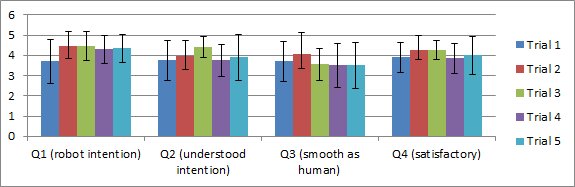
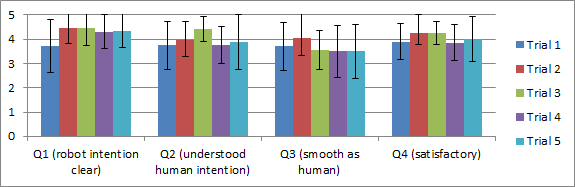
In-progress update

diff --git a/root.tex b/root.tex
@@ -181,7 +181,7 @@ Our behaviour is presented as a socially compliant means to resolving navigation
 
 Testing was divided into two discrete phases – one set of experimental robot-robot interactions, and one user study of human-robot interactions. It is important to note that the environment, robots, software and parameters were the same in both tests, as they would be in a live system.
 
-The test environment for all experiments was a lab with a wall erected to divide the test space into two smaller rooms and with an open, standard-sized (97cm wide) doorway centered in it. Subjects in the smaller room would begin 2m from the door, while subjects in the larger room would begin 4m away. This would ensure the closer party in each interaction would have right of way by arriving at the door first, setting up a natural outcome for each deadlock we would expect of two humans.
+The test environment for all experiments was a lab with a wall erected to divide the test space into two smaller rooms and with an open, standard-sized (97cm wide) doorway centered in it. Subjects in the smaller room would begin 2m from the door, while subjects in the larger room would begin 4m away. This ensured the closer party in each interaction should have right of way by arriving at the door first, as we would expect from two humans in this setting (all else being equal).
 
 The robots used were Pioneer 3DXs, as seen in Figure~\ref{fig:Triptych}. Both were mounted with forward-facing range-finding lasers to provide navigational and detection data, using comparisons between a known map of the environment to determine if something in front is an obstacle or a possible interaction partner without distinguishing between different possible partners. They used rear-mounted sonars while retreating to avoid collisions. They had a top speed of 0.5m/s and stood 0.74m tall thanks to a paperwork-storing box used as part of the study, which gave them just enough physical presence to make stepping over them impractical but without posing a threat to participants.
 
@@ -190,14 +190,14 @@ Sensor data and user feedback were deliberately limited in this implementation t
 
 \subsection{Robot-Robot Experiment}
 
-Each robot was set at their respective starting points either side of the doorway. At the beginning of each trial, the further robot would be given the instruction to drive to the other robot’s starting point, and after approximately one second the closer robot would receive the same instruction. This ensured the robot starting inside the smaller room would most likely reach the doorway first (with some variability on their exact meeting point) and so would also be given the higher ``assertiveness" variable.
+Each robot was set at their respective starting points either side of the doorway. At the beginning of each trial, the further robot would be given the instruction to drive to the other robot’s starting point, and after approximately one second the closer robot would receive the same instruction. This ensured the robot starting inside the smaller room would most likely reach the doorway first (with some variability on their exact meeting point) and was given the higher ``assertiveness" variable to reflect their expected right of way.
 
-The expected outcome for each trial would be that the more assertive, nearer robot would win the ensuing contest and drive the other robot to retreat until it could pass, whereupon the other robot would resume and finish its journey. Once both robots had reached the other’s starting point, they would swap assertiveness values and repeat the process. This was repeated 25 times, with the outcomes, interaction times and errors or other incidents recorded. 
+The desired outcome for each trial was that the more assertive, nearer robot would win the ensuing contest and have the other robot retreat until it could pass, whereupon the other robot would resume and finish its journey. Once both robots had reached their destinations, they would swap assertiveness values and goals and repeat the process. This was repeated 44 times, with the outcomes, interaction times and errors or other incidents recorded. 
 
 
 \subsection{Human-Robot Study}
 
-20 participants were recruited from the general population of Simon Fraser University, including 8 women and 12 men, and were not compensated for their assistance.
+20 participants were recruited from the general population of Simon Fraser University, including 8 women and 12 men. They were not compensated for their assistance.
 
      \begin{figure}
       \centering
@@ -206,11 +206,11 @@ The expected outcome for each trial would be that the more assertive, nearer rob
       \label{fig:Example}
    \end{figure}
 
-Each participant was brought to the test environment and seated across from the test conductor in the smaller room, passing by the robot prepared for the experiment in the larger room. Every trial had the participant drop a document in a box in the larger room while the robot entered the smaller room to pick up some excess paperwork, causing incidental interactions at the doorway dividing the two rooms. Each participant completed five trials:
+Each participant was brought to the test environment and seated across from the test conductor in the smaller room, passing by the robot prepared for the experiment in the larger room. Every trial had the participant drop a document in a box in the larger room while the robot entered the smaller room to pick up some excess paperwork from the test conductor, then had the participant and robot return to their starting points. This created two interactions per trial, where we expected the human to have the right of way in the first part and the robot in the second. Each participant completed five trials:
 
-\textbf{1) First Reaction Trial:} Without being informed as to the details of the experiment, the participant was asked to drop their signed consent form in a box on a table in the larger room, while the robot would be called in to collect the reusable part of their consent form. The participant incidentally interacted with the robot around the door as a result, and then again on their return journey. The participant was then informed that these incidental interactions were actually one of the trials, and the intent of the study was to examine their interactions with the robot around the doorway.
+\textbf{1) First Reaction Trial:} Without being informed as to the details of the experiment, the participant was asked to drop their signed consent form in a box on a table in the larger room, while the robot would be called in to collect the reusable part of the form. The participant incidentally interacted with the robot around the door as a result, and then again on their return journey. The participant was then informed that these incidental interactions were actually one of the trials, and the intent of the study was to examine their interactions with the robot around the doorway.
 
-\textbf{2) Teleoperation Trial:} The participant was informed that the test conductor will take in control of the robot via a controller, but to otherwise focus on the robot. 
+\textbf{2) Teleoperation Trial:} The participant was informed that the test conductor will take direct control of the robot via a controller, but to otherwise focus on the robot when deciding when to pass. 
 
 \textbf{3) Full System Trial:} The participant was informed the full autonomous system would now be active and the test conductor would no longer be in control of the robot.
 
@@ -274,7 +274,7 @@ What other feedback?\\
 
 \subsection{Results}
 
-[EDITOR NOTE: Still under development. The goal is to show that outcome results establish the system worked mostly as intended to resolve deadlocks, but also that there are different subgroups of participants based on how much they respected the robot's right of way. The timing data then shows the human-robot interactions are sufficiently timely but also that those who respected that right of way had better trial completion times to support the claim that extending reciprocation of social customs to robots will make for better overall performance. The stickier part is analyzing the survey results and questionnaire answers for evidence that perception of the robot correlated in some way with behaviour and performance, so the latter two subsections are still being worked up.]
+
 
 \textbf{1) Outcome:} The robot-robot interaction experiment had 44 trials, with 5 additional trials discounted due to navigational errors unrelated to our behaviour. Of those 44, 34 trials went exactly as planned.  In four cases each robot believed the other robot was approaching them and both retreated at first, but correctly resolved the interaction on the second attempt, while six trials had recoverable navigational errors unrelated to our behaviour. All trials ended with the correct robot winning the interaction and both arriving at their desired destinations.
 
@@ -285,7 +285,7 @@ What other feedback?\\
       \label{fig:Outcomes}
    \end{figure}
 
-The outcome results for the human-robot interaction study are in Figure~\ref{fig:Outcomes}. The near-unanimous respect for the human's right of way in all trials when the participant was closest to the door is not very revealing, beyond that the behaviour completed obtrusive or aggressive. The bigger challenge to participants came in the second half of each trial, which revealed four discrete categories of participant: 
+The outcome results for the human-robot interaction study are in Figure~\ref{fig:Outcomes}. The near-unanimous respect for the human's right of way in all trials when the participant was closest to the door is not very revealing, beyond that the behaviour completed successfully without being too obtrusive or aggressive. The bigger challenge to participants came in the second half of each trial, which revealed four discrete categories of participant: 
 
 A) Those who would never respect the robot's right of way, sometimes even in trial 4 when specifically asked to. 
 
@@ -315,9 +315,9 @@ Our 20 participants were divided relatively evenly between these four categories
       \label{fig:Trial}
    \end{figure}
 
-The robot-robot behavior is much slower than any human-involved behavior, however, the human-robot interactions observed in the four non-teleoperated trials are only marginally slower than the interaction in the second trial, where a human is controlling the robot. This suggests that in terms of efficiency, our behavior may already be operating close to what may be possible for the given robot platform. While an abundance of caution on the part of the robots may make the behavior slow on its own, human interlocutors compensate during interactions in much the same way regardless of how the robot is being controlled. 
+The robot-robot behavior is much slower than any human-involved behavior, however, the human-robot interactions observed in the four non-teleoperated trials are only marginally slower than the interaction in the second trial, where a human is controlling the robot. This suggests that in terms of efficiency, our behavior may already be operating close to what may be possible for the given robot platform. %While an abundance of caution on the part of the robots makes the behavior relatively slow on its own, human interlocutors compensate during interactions in much the same way regardless of how the robot is being controlled. 
 
-If we break down these time results according to our four participant behaviour categories, seen in Figure~\ref{fig:Respect}, we found that participants who did not respect the robot's right of way had higher trial times than those who did. This reflects that while going out of turn might benefit the human individually, it degrades the throughput of the overall environment. 
+If we break down these time results according to our four participant behaviour categories, seen in Figure~\ref{fig:Respect}, we found that participants who did not respect the robot's right of way had higher trial times than those who did across all trials. This reflects that while going out of turn might benefit the human individually, it degrades the throughput of the overall environment. 
 
      \begin{figure}
       \centering
@@ -326,7 +326,7 @@ If we break down these time results according to our four participant behaviour 
       \label{fig:Respect}
    \end{figure}
 
-\textbf{3) Surveys:} The data from the four Likert-scale questions on the post-trial surveys is collected in Figure~\ref{fig:Questionnaire}. 
+\textbf{3) Surveys:} The data from the four Likert-scale questions on the post-trial surveys is collected in Figure~\ref{fig:Questionnaire}. While the interaction was broadly positively received in each trial, 
  
      \begin{figure*}
       \centering
@@ -336,16 +336,20 @@ If we break down these time results according to our four participant behaviour 
    \end{figure*}
  
 
-Breaking down the survey answers according to our four observed participant behaviours did not reveal, with the exception [ongoing]
+Breaking down the survey answers according to our four observed participant behaviours showed few notable differences . In fact, it is the participants who most respected the robot's right of way in the first trial that gave it low ratings for clear intentions and satisfaction for that trial. A participant who found they could make the robot back down in every confrontation may find the interaction as satisfying as one who chose to respect the robot's right of way every time.
 
-The participants’ accounts of each trial included many notes on small implementation details that could make the interaction more natural. Several participants noted that a human would know which direction to back up in order to clear their way faster, and others suggested that a human would speed up after noticing someone was already getting out of their way to minimize that person's delay. One participant articulated what was effectively a Reciprocal Velocity Obstacle interaction, wanting the robot to cooperate for a close pass rather than one being forced to stop and back away from the other.
+The participants’ accounts of each trial 
 
-Beyond their usefulness in enhancing the system, that the behaviour prompted participants to seek greater reciprocation for the social courtesies they extended the robot suggests the interaction provoked the desired response. [ongoing]
 
-\textbf{4) Post-Test Questionnaire:} The questionnaire data was mostly qualitative, with the partial exception of question three where the participant gave their preferred trial. The overall results for this question are presented in Table 3 (with one abstention), while breaking down these preferences by our four participant behaviour categories saw no significant correlation.
+
+
+
+that the behaviour prompted participants to seek greater reciprocation for the social courtesies they extended the robot suggests the interaction provoked the desired response. [ongoing]
+
+\textbf{4) Post-Test Questionnaire:} The questionnaire data was mostly qualitative, with the partial exception of question three where the participant gave their preferred trial. The overall results for this question are presented in Table 3 (with one abstention).
 
 \begin{table}[h]
-\caption{Number of Participants who Preferred Interaction From Each Trial }
+\caption{Number of Participants who Preferred Each Trial }
 \label{Preferemces}
 \begin{center}
 \begin{tabular}{|c||c|}
@@ -364,28 +368,35 @@ Trial 5 & 4\\
 \end{center}
 \end{table}
 
-What we do see are common justifications shared by participants who chose the same trial as their preference. All three participants who chose trial 4 cited that they preferred the decision on whether to defer to the robot or not be taken out of their hands by the test conductor, and similarly those who chose trial 2 mostly cited the speed of the interaction when the robot was being teleoperated. Participants who chose trials 1, 3 and 5 highlighted understanding the robot's intentions and the sense that it understood theirs, sometimes even directly referencing the humanlike characteristics of the behaviour.
+Breaking down these preferences by our four participant behaviour categories saw no significant correlation. Instead we found common justifications shared by participants who chose the same trial as their preference. All three participants who chose trial 4 cited that they preferred the decision on whether to defer to the robot or not be taken out of their hands, and similarly those who chose trial 2 mostly cited the speed of the interaction when the robot was being teleoperated. Participants who chose one of trials 1, 3 and 5 highlighted understanding the robot's intentions and the sense that it understood theirs, sometimes even directly referencing the humanlike characteristics of the behaviour.
 
-The teleoperated trial was not notably preferred by participants in questionnaire results and that those who chose it did not cite the human operator as a cause, which suggests who was ultimately in control was not a significant factor in participant reaction to the robot. [Participant comments focus on the physical touches that make the robot interactions smoother] [ongoing]
+The first two questions on the post-test questionnaire directly address why the participant would choose to advance or make way. Here, we did see a difference 
 
+The fourth question
+
+Both the fifth question and the interaction accounts from the surveys produced a number of small implementation suggestions to smooth the interaction. Several participants noted that a human would know which direction to back up in order to clear their way faster, and others suggested that a human would speed up after noticing someone was already getting out of their way to minimize that person's delay. Three participants described what was effectively a Reciprocal Velocity Obstacle interaction, where the robot cooperates at distance for a closer pass rather than one being forced to stop and back away from the other. 
 
 \section{DISCUSSION}
-
-[Still being heavily reworked in light of the developing plan for the results section. The new hypotheses are stronger, clearer and easier to argue for but do need all the results in. The other subsections will likely be reworked depending on whether certain points end up in earlier sections or are left over to talk about at the end, like some of the participant feedback on enhancing the behaviour.]
 
 \subsection{Hypotheses}
 
 Our first hypothesis was that our behaviour would resolve doorway navigation deadlocks, and in terms of both parties arriving at their destinations without incident that was the case in almost all trials. Defined more narrowly, we found that our behaviour executed as intended (the party with right of way was allowed to pass first) in virtually every robot-robot tests and those human-robot tests where the human had right of way. 
 
-While most of our participants ignored the robot's right of way during at least some trials, the vast majority could still complete the interaction as intended when asked to do so in trial 4. 
+While most participants ignored the robot's right of way during at least some trials, the vast majority could still complete the interaction as intended when asked to do so in trial 4. With that trial as a baseline, we can therefore say the behaviour succeeded in resolving doorway deadlocks for both humans and robots, contingent on the cooperation of the human.
 
-Our second hypothesis concerns whether respecting right of way increased overall performance, and looking at average trial times showed a marked improvement for those who did. This supports our belief that adopting robots into the social customs of shared human-robot environments will produce better outcomes overall, but that this acceptance hinges on the reciprocation of the participants and their perceptions of the robot.
+Our second hypothesis concerns whether respecting right of way increased overall performance, and looking at average trial times showed a marked improvement for those who did. However, this measure of performance assumes that we are concerned with the throughput of a shared human-robot environment
 
-This leads into our third hypothesis. The gap between compliance in trial 4 and the other trials suggests the issue then may not be with the mechanics of the behaviour, but whether the participant chooses to cooperate. [ongoing]
+This supports our theory that behaviours   for shared human-robot environments will produce better outcomes overall, but will hinge on the acceptance of humans.
+
+This leads into our third hypothesis. The gap between compliance in trial 4 and the other trials suggests the issue is not with the mechanics of the behaviour, but whether it provokes cooperation from the human. 
 
 Participant preferences made clear both the insignificance of the human controller and the willingness, even desire to see the robot as having an intent of its own and recognizing the human's intentions in turn.
 
 
+The teleoperated trial was not notably preferred by participants in questionnaire results and that those who chose it did not cite the human operator as a cause, which suggests who was ultimately in control was not a significant factor in participant reaction to the robot. [Participant comments focus on the physical touches that make the robot interactions smoother] [ongoing]
+
+
+The suggestions from the questionnaire and accounts demonstrated that participants were looking for more reciprocation from the robot for the social courtesies they were extending.
 
 %While there was unmistakably slowdown in the robot-robot interactions, we saw speeds close to capacity in the human-robot trials. That the behavior led to resolving the door deadlock in all trials but one robot-robot case is evidence of functionality. Reliability saw a decisive majority of outcomes break the expected way in robot-robot trials, and while humans did not respect the robot’s right of way in the majority of interaction trials, that the interaction worked as intended during trial 4 when they were instructed to defer suggests this is a perception issue rather than performance.
 
@@ -411,11 +422,11 @@ The simple green/red LED signals also provoked very little participant interest.
 
 \subsection{Future Work}
 
-While we saw promising evidence that our system did provoke some reciprocation from participants, the large proportion who did not respect the robot's right of way shows that work remains in achieving acceptance. 
+While we saw promising evidence that our system did provoke some reciprocation from participants, the large proportion who did not respect the robot's right of way shows that work remains in achieving acceptance.  Establishing that perception of the robot as a human-like, autonomous agent helps it achieve social compliance and overall performance gives us a clear goal to work toward, and user feedback highlighting what additional behaviours would improve the interaction.
 
 Expanding the platform’s sensor capabilities could allow the system to integrate more nuanced information than distance when deciding when to act, like gestures or spoken commands. Though these capabilities were deliberately excluded to focus attention on the performance of the fundamental behavior, participant feedback emphasized the importance of picking up on smaller multi-modal cues to make the interaction more natural.
 
-%One avenue of exploration was revealed by participant accounts of the fifth trial. In some cases, participants found that once they understood how the system worked, a certain amount of the ``magic" was lost and they were less impressed with the robot’s courtesy. Many rated the behavior most highly in the first trial before knowing anything about what to look for or expect, much in the same way that a wizard of Oz experiment often depends on the participant not realizing that the ‘system’ they are interacting with is a mock-up. Perhaps behavior development strategies that move some of the design process out of the developer’s hands, like machine learning, may produce systems whose autonomy humans will be more likely to respect.
+One avenue of exploration was revealed by accounts of the fifth trial. In some cases, particularly the type C participants who stopped respecting the robot's right of way, hearing an explanation of how the behaviour worked turned it into a mere mechanism rather than a social activity. Several chose to play with the robot, deliberately triggering the fight mechanism over and over to see if it would respond as predicted. Perhaps behavior development strategies that obscure the inner workings of a system, like machine learning, will impact human perception of that system.
 
 \section{CONCLUSION}
 
